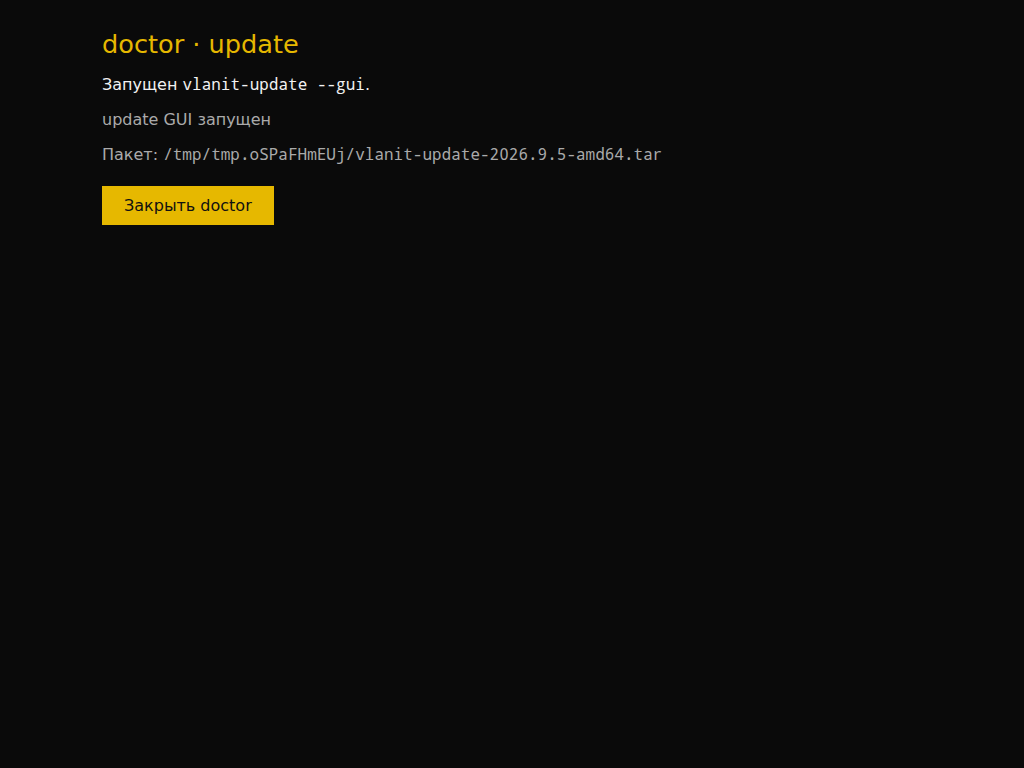
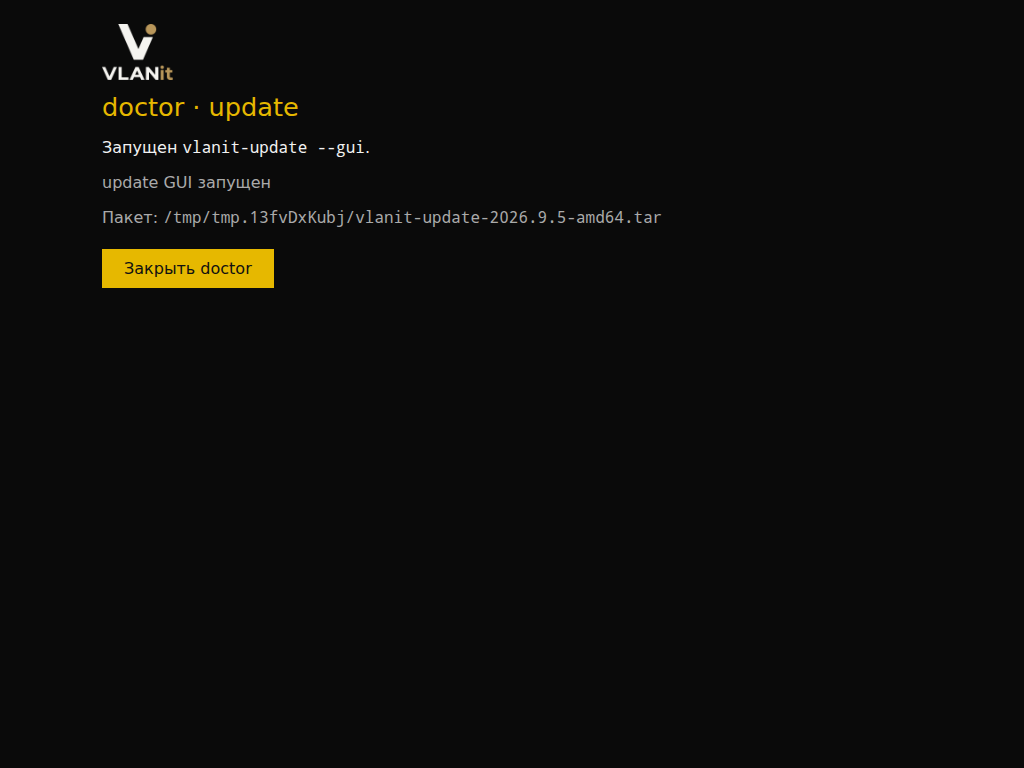
fix(gui): стиль update как у doctor, ряд кнопок OTA
Имя пакета над кнопками в doctor; update GUI на тех же токенах/logo; скрины.

Changed region(s): [[0.0938, 0.0312, 0.6562, 0.375]]

diff --git a/update/gui/static/style.css b/update/gui/static/style.css
@@ -1,39 +1,103 @@
-/* vlanit-update GUI — те же токены, что doctor */
-:root {
-  --bg: #0b1220;
-  --fg: #e8eef7;
-  --muted: #9aa8bc;
-  --card: #141e2e;
-  --ok: #3dd68c;
-  --warn: #f5a524;
-  --fail: #f07178;
-  --accent: #5b9fd4;
-  --border: #243247;
+/* vlanit-update GUI — те же токены, что doctor (NetSurf-fb). */
+html, body {
+  margin: 0;
+  padding: 0;
+  background: #0a0a0a;
+  color: #f2f2f2;
+  font-family: "DejaVu Sans", sans-serif;
+  font-size: 16px;
 }
-* { box-sizing: border-box; }
-body {
-  margin: 0; padding: 1.25rem 1.5rem 2rem;
-  font-family: "DejaVu Sans", "Liberation Sans", sans-serif;
-  background: var(--bg); color: var(--fg); font-size: 18px; line-height: 1.45;
+.wrap {
+  max-width: 820px;
+  margin: 0 auto;
+  padding: 24px 28px 48px;
 }
-h1 { font-size: 1.5rem; margin: 0 0 0.75rem; }
-h2 { font-size: 1.2rem; margin: 1rem 0 0.5rem; }
-.muted { color: var(--muted); }
-.err { color: var(--fail); }
+.brand {
+  display: block;
+  max-height: 56px;
+  margin-bottom: 12px;
+}
+h1 {
+  color: #e6b800;
+  font-size: 1.6em;
+  margin: 0.2em 0 0.6em;
+  font-weight: normal;
+}
+h2 {
+  color: #e6b800;
+  font-size: 1.2em;
+  font-weight: normal;
+}
+.muted { color: #aaa; }
+.err {
+  background: #3a1010;
+  border: 1px solid #c44;
+  color: #fcc;
+  padding: 10px 14px;
+  margin: 12px 0;
+}
 .card {
-  background: var(--card); border: 1px solid var(--border);
-  border-radius: 6px; padding: 1rem 1.1rem; margin: 0.75rem 0;
+  background: #161616;
+  border: 1px solid #333;
+  padding: 16px 18px;
+  margin: 14px 0;
+}
+.card.result-ok { border-color: #2a6; }
+.card.result-fail { border-color: #c44; }
+.hint {
+  margin-top: 8px;
+  color: #e6b800;
+}
+.hint code,
+.ota-hint code,
+code {
+  color: #eee;
+  background: #222;
+  padding: 2px 6px;
+}
+.actions {
+  margin-top: 22px;
+  display: flex;
+  flex-wrap: wrap;
+  gap: 10px;
+  align-items: center;
 }
 .btn {
-  display: inline-block; margin: 0.35rem 0.5rem 0.35rem 0;
-  padding: 0.55rem 1rem; background: var(--accent); color: #061018;
-  text-decoration: none; border-radius: 4px; font-weight: 600;
-  border: none; font-size: 1rem; cursor: pointer;
+  background: #e6b800;
+  color: #111;
+  border: 0;
+  padding: 10px 22px;
+  font-size: 1em;
+  text-decoration: none;
+  display: inline-block;
+  margin: 0;
 }
-.btn.secondary { background: transparent; color: var(--fg); border: 1px solid var(--border); }
-.btn.danger { background: var(--fail); color: #1a0505; }
-.actions { margin-top: 1.25rem; }
-ul.pkgs { list-style: none; padding: 0; }
-ul.pkgs li { margin: 0.4rem 0; }
-code { font-size: 0.9em; }
-.progress { color: var(--accent); }
+.btn.secondary {
+  background: #333;
+  color: #eee;
+}
+.btn.danger {
+  background: #c44;
+  color: #fff;
+}
+ul.pkgs {
+  list-style: none;
+  padding: 0;
+  margin: 0;
+}
+ul.pkgs li.card {
+  margin: 14px 0;
+}
+ul.pkgs .pkg-name {
+  color: #e6b800;
+  font-size: 1.05em;
+  margin: 0 0 8px;
+}
+pre.card {
+  white-space: pre-wrap;
+  word-break: break-word;
+  overflow: auto;
+  max-height: 320px;
+  font-size: 0.9em;
+}
+a { color: #e6b800; }

diff --git a/doctor/gui/static/style.css b/doctor/gui/static/style.css
@@ -68,7 +68,23 @@ h2 {
   background: #222;
   padding: 2px 6px;
 }
-.actions { margin-top: 22px; }
+.actions {
+  margin-top: 22px;
+  display: flex;
+  flex-wrap: wrap;
+  gap: 10px;
+  align-items: center;
+}
+.ota-hint {
+  margin: 16px 0 0;
+  color: #aaa;
+  font-size: 0.95em;
+}
+.ota-hint code {
+  color: #eee;
+  background: #222;
+  padding: 2px 6px;
+}
 .btn {
   background: #e6b800;
   color: #111;
@@ -77,11 +93,11 @@ h2 {
   font-size: 1em;
   text-decoration: none;
   display: inline-block;
+  margin: 0;
 }
 .btn.secondary {
   background: #333;
   color: #eee;
-  margin-right: 10px;
 }
 table.data {
   width: 100%;

diff --git a/update/gui/server.py b/update/gui/server.py
@@ -24,17 +24,25 @@ _apply_rc: int | None = None
 _apply_log: str = ""
 
 
-def render(title: str, body: str) -> bytes:
-    css = "/static/style.css"
+def render(title: str, body: str, *, refresh_sec: int | None = None) -> bytes:
+    refresh_meta = (
+        f'<meta http-equiv="refresh" content="{refresh_sec}">' if refresh_sec else ""
+    )
+    logo = ""
+    if (STATIC / "logo.png").is_file():
+        logo = '<img class="brand" src="/static/logo.png" alt="VLANit">'
     doc = f"""<!DOCTYPE html>
 <html lang="ru"><head>
 <meta charset="utf-8">
-<meta http-equiv="refresh" content="3">
+{refresh_meta}
 <title>{html.escape(title)}</title>
-<link rel="stylesheet" href="{css}">
+<link rel="stylesheet" href="/static/style.css">
 </head><body>
-<h1>VLANit обновление АТС</h1>
+<div class="wrap">
+{logo}
+<h1>{html.escape(title)}</h1>
 {body}
+</div>
 </body></html>
 """
     return doc.encode("utf-8")
@@ -74,20 +82,23 @@ def page_pick(pkgs: list[str]) -> bytes:
 </p>
 <p class="muted">CLI: <code>vlanit-update</code></p>
 """
-        return render("update · нет пакета", body)
+        return render("VLANit обновление АТС", body)
     items = []
     for p in pkgs:
         items.append(
-            f'<li class="card"><a class="btn" href="/confirm?pkg={html.escape(p)}">'
-            f"{html.escape(Path(p).name)}</a>"
-            f'<div class="muted">{html.escape(p)}</div></li>'
+            f'<li class="card">'
+            f'<p class="pkg-name">{html.escape(Path(p).name)}</p>'
+            f'<p class="muted"><code>{html.escape(p)}</code></p>'
+            f'<p class="actions">'
+            f'<a class="btn" href="/confirm?pkg={html.escape(p)}">Выбрать</a>'
+            f"</p></li>"
         )
     body = f"""
 <p class="muted">Выберите пакет обновления (GPG-подпись обязательна).</p>
 <ul class="pkgs">{"".join(items)}</ul>
 <p class="actions"><a class="btn secondary" href="/quit">Выход</a></p>
 """
-    return render("update · пакет", body)
+    return render("VLANit обновление АТС", body)
 
 
 def page_confirm(pkg: str) -> bytes:
@@ -99,7 +110,8 @@ def page_confirm(pkg: str) -> bytes:
     body = f"""
 <div class="card">
   <h2>Сводка</h2>
-  <p>Пакет: <code>{html.escape(pkg)}</code></p>
+  <p>Пакет: <code>{html.escape(Path(pkg).name)}</code></p>
+  <p class="muted">Путь: <code>{html.escape(pkg)}</code></p>
   <p>Объём: {html.escape(size)}</p>
   <p>Будет создан снапшот <code>pre-update</code>, затем импорт образа АТС.</p>
   <p class="muted">Откат: <code>vlanit-rollback</code></p>
@@ -109,7 +121,7 @@ def page_confirm(pkg: str) -> bytes:
   <a class="btn secondary" href="/">Отмена</a>
 </p>
 """
-    return render("update · confirm", body)
+    return render("VLANit обновление АТС · подтверждение", body)
 
 
 def page_apply(pkg: str) -> bytes:
@@ -144,11 +156,11 @@ def page_apply(pkg: str) -> bytes:
 
             threading.Thread(target=_run, daemon=True).start()
             body = f"""
-<p class="progress">Запуск обновления…</p>
-<p class="muted">{html.escape(pkg)}</p>
+<p class="hint">Запуск обновления…</p>
+<p class="muted"><code>{html.escape(Path(pkg).name)}</code></p>
 <p class="actions"><a class="btn" href="/status">Статус</a></p>
 """
-            return render("update · apply", body)
+            return render("VLANit обновление АТС · запуск", body, refresh_sec=2)
 
     return page_status()
 
@@ -166,30 +178,32 @@ def page_status() -> bytes:
         except OSError:
             pass
         body = f"""
-<p class="progress">Идёт обновление (снапшот → import → restart → health)…</p>
+<p class="hint">Идёт обновление (снапшот → import → restart → health)…</p>
 <pre class="card muted">{html.escape(log_tail or "…")}</pre>
 <p class="actions"><a class="btn" href="/status">Обновить статус</a></p>
 """
-        return render("update · progress", body)
+        return render(
+            "VLANit обновление АТС · прогресс", body, refresh_sec=2
+        )
     if rc == 0:
         body = f"""
-<div class="card"><h2>OK</h2>
+<div class="card result-ok"><h2>OK</h2>
 <p>Обновление АТС завершено.</p>
 <p class="muted">Откат: <code>vlanit-rollback</code></p></div>
 <pre class="card muted">{html.escape(log_tail[-1500:])}</pre>
 <p class="actions"><a class="btn" href="/quit">Выход</a></p>
 """
-        return render("update · OK", body)
+        return render("VLANit обновление АТС · готово", body)
     body = f"""
-<div class="card"><h2 class="err">Ошибка (код {rc})</h2>
-<p>См. лог. CLI: <code>tail /var/log/vlanit-update.log</code></p></div>
+<div class="card result-fail"><h2>Ошибка (код {rc})</h2>
+<p class="err">См. лог. CLI: <code>tail /var/log/vlanit-update.log</code></p></div>
 <pre class="card muted">{html.escape(log_tail[-2000:])}</pre>
 <p class="actions">
   <a class="btn" href="/">Сначала</a>
   <a class="btn secondary" href="/quit">Выход</a>
 </p>
 """
-    return render("update · FAIL", body)
+    return render("VLANit обновление АТС · ошибка", body)
 
 
 class Handler(BaseHTTPRequestHandler):
@@ -218,7 +232,10 @@ class Handler(BaseHTTPRequestHandler):
             if not fpath.is_file():
                 self._send(404, b"missing")
                 return
-            self._send(200, fpath.read_bytes(), "text/css; charset=utf-8")
+            ctype = (
+                "image/png" if fpath.suffix == ".png" else "text/css; charset=utf-8"
+            )
+            self._send(200, fpath.read_bytes(), ctype)
             return
 
         if path == "/quit":
@@ -227,7 +244,7 @@ class Handler(BaseHTTPRequestHandler):
             self._send(
                 200,
                 render(
-                    "update · выход",
+                    "VLANit обновление АТС",
                     '<p class="muted">Можно закрыть. CLI: <code>vlanit-update</code></p>',
                 ),
             )

diff --git a/doctor/gui/server.py b/doctor/gui/server.py
@@ -249,6 +249,7 @@ def page_overview(data: dict, *, problems_only: bool = False) -> bytes:
 
     pkgs = _ota_packages()
     update_btn = ""
+    ota_hint = ""
     if pkgs:
         # один пакет — сразу handoff; несколько — первая страница update GUI
         pkg_q = html.escape(pkgs[0])
@@ -257,10 +258,10 @@ def page_overview(data: dict, *, problems_only: bool = False) -> bytes:
             if len(pkgs) == 1
             else '<a class="btn" href="/action/update">Обновить АТС</a>'
         )
-        update_btn += (
-            f'<span class="muted"> · пакет: {html.escape(Path(pkgs[0]).name)}'
-            + (f" (+{len(pkgs)-1})" if len(pkgs) > 1 else "")
-            + "</span>"
+        extra = f" (+{len(pkgs) - 1})" if len(pkgs) > 1 else ""
+        ota_hint = (
+            f'<p class="ota-hint">Пакет OTA: '
+            f'<code>{html.escape(Path(pkgs[0]).name)}</code>{extra}</p>'
         )
 
     body = f"""
@@ -274,6 +275,7 @@ def page_overview(data: dict, *, problems_only: bool = False) -> bytes:
   {"".join(rows)}
 </table>
 {detail}
+{ota_hint}
 <p class="actions">
   <a class="btn secondary" href="/?refresh=1">Перепроверить</a>
   {filter_btn}

diff --git a/docs/update-gui.md b/docs/update-gui.md
@@ -1,6 +1,8 @@
 # Руководство: vlanit-update GUI
 
 Мастер обновления образа MikoPBX на консоли (HTML + `netsurf-fb`).
+Тот же визуальный стиль, что doctor: чёрный фон, золото `#e6b800`,
+кнопки primary/secondary, logo из branding.
 Issue [#58](https://github.com/vlanit-com/vlanit-pbx-os/issues/58).
 Спека: [`docs/specs/vlanit-update-gui.md`](specs/vlanit-update-gui.md).
 Связано: doctor GUI [`docs/doctor-gui.md`](doctor-gui.md), pin/bump

diff --git a/docs/doctor-gui.md b/docs/doctor-gui.md
@@ -71,7 +71,7 @@ vlanit-doctor --json
 
 ## Сводка с кнопкой «Обновить АТС»
 
-Появляется, когда найден USB-пакет OTA. Рядом имя пакета.
+Появляется, когда найден USB-пакет OTA. Имя пакета — над рядом кнопок.
 
 ![Сводка + Обновить АТС](doctor-gui/shots/05-overview-update.png)
 
